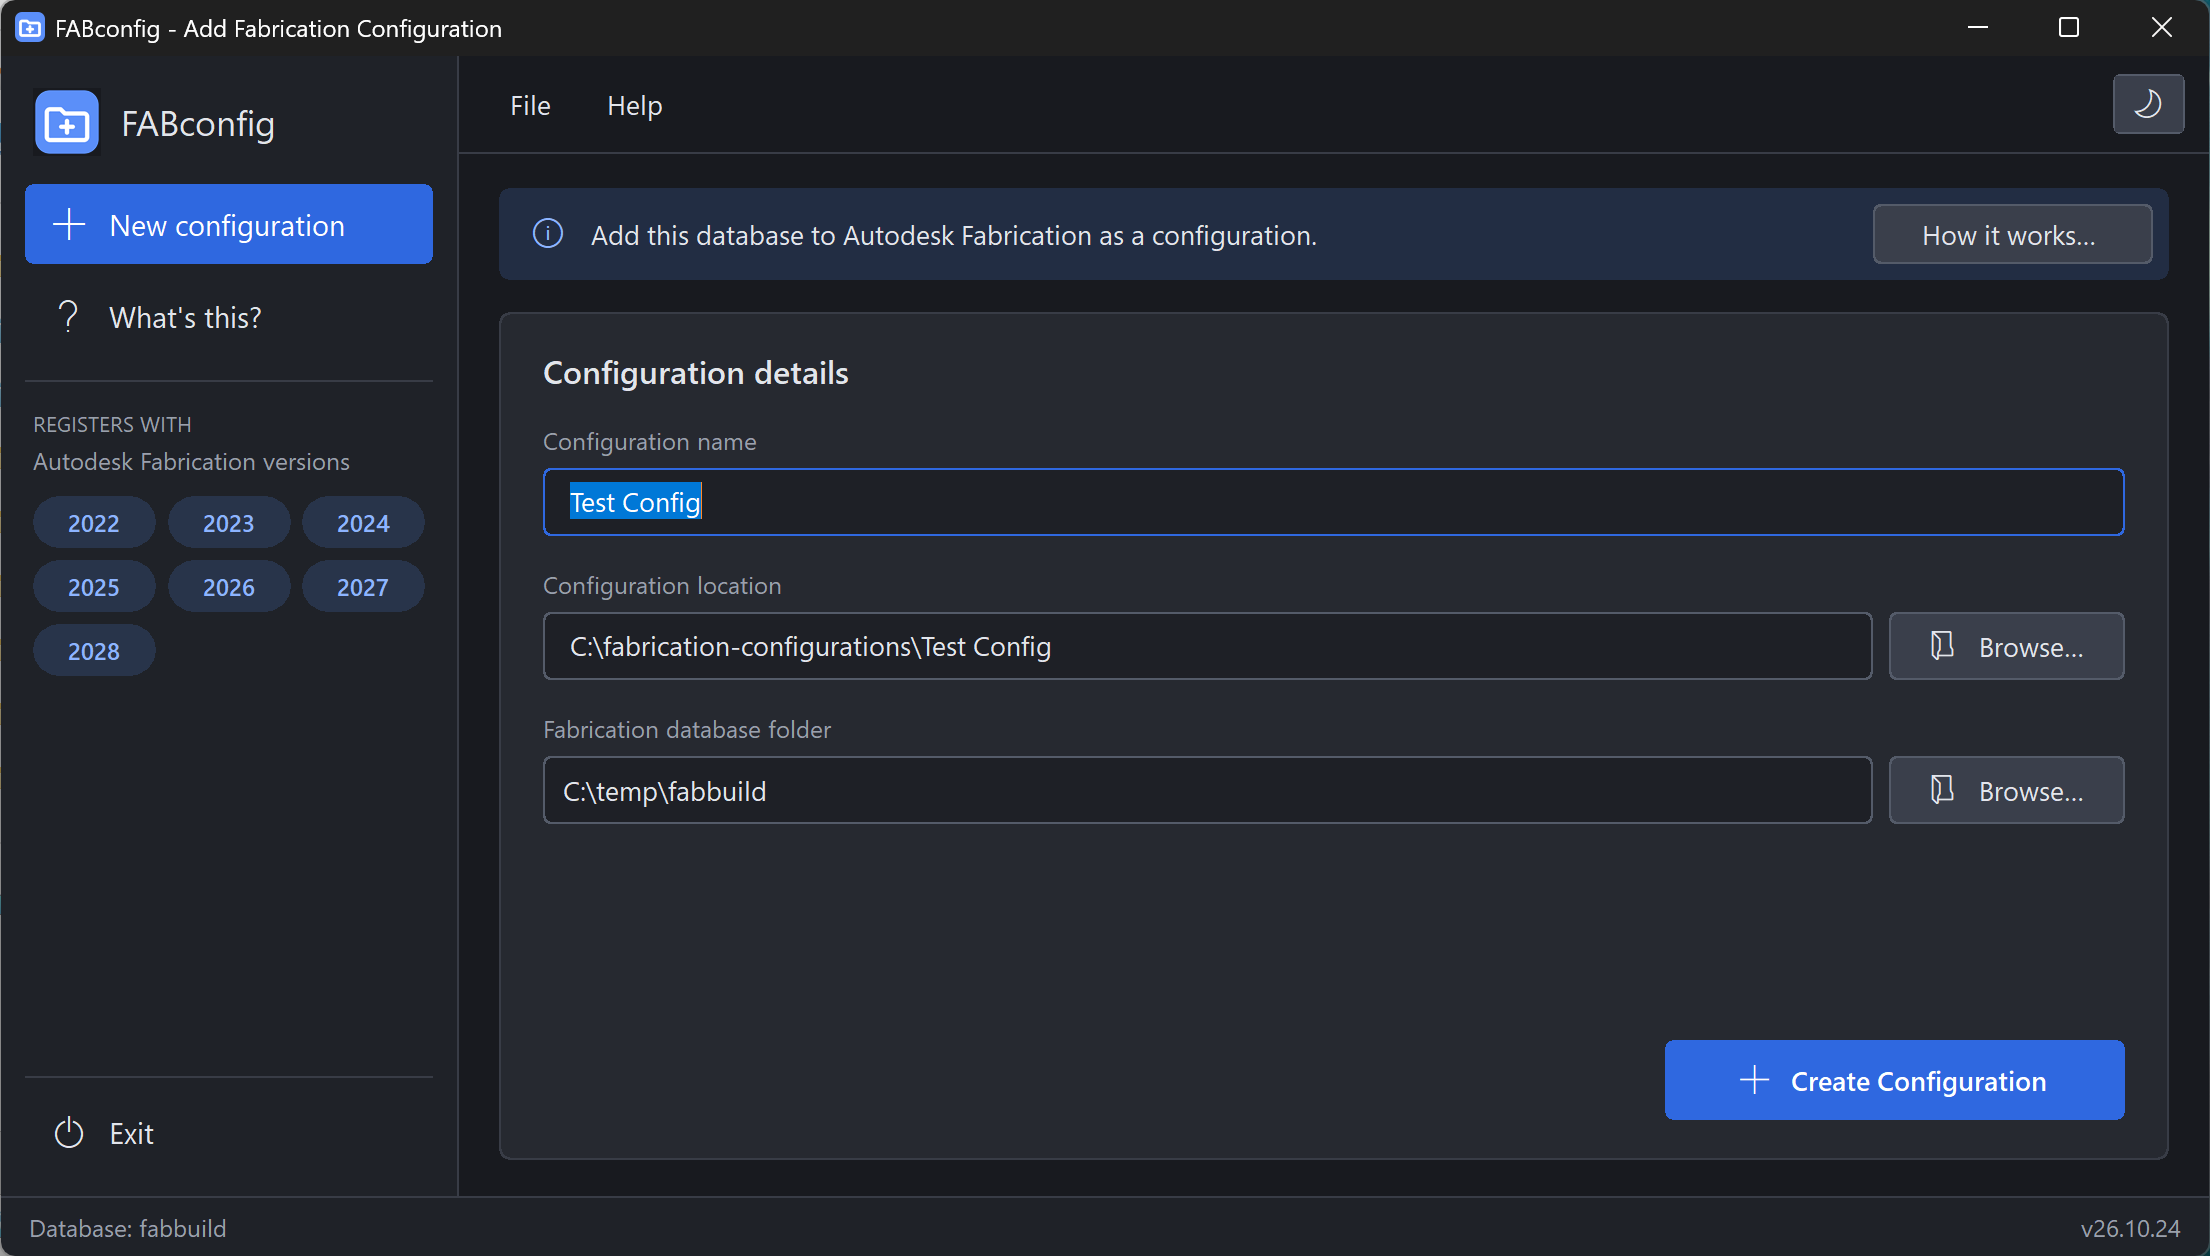
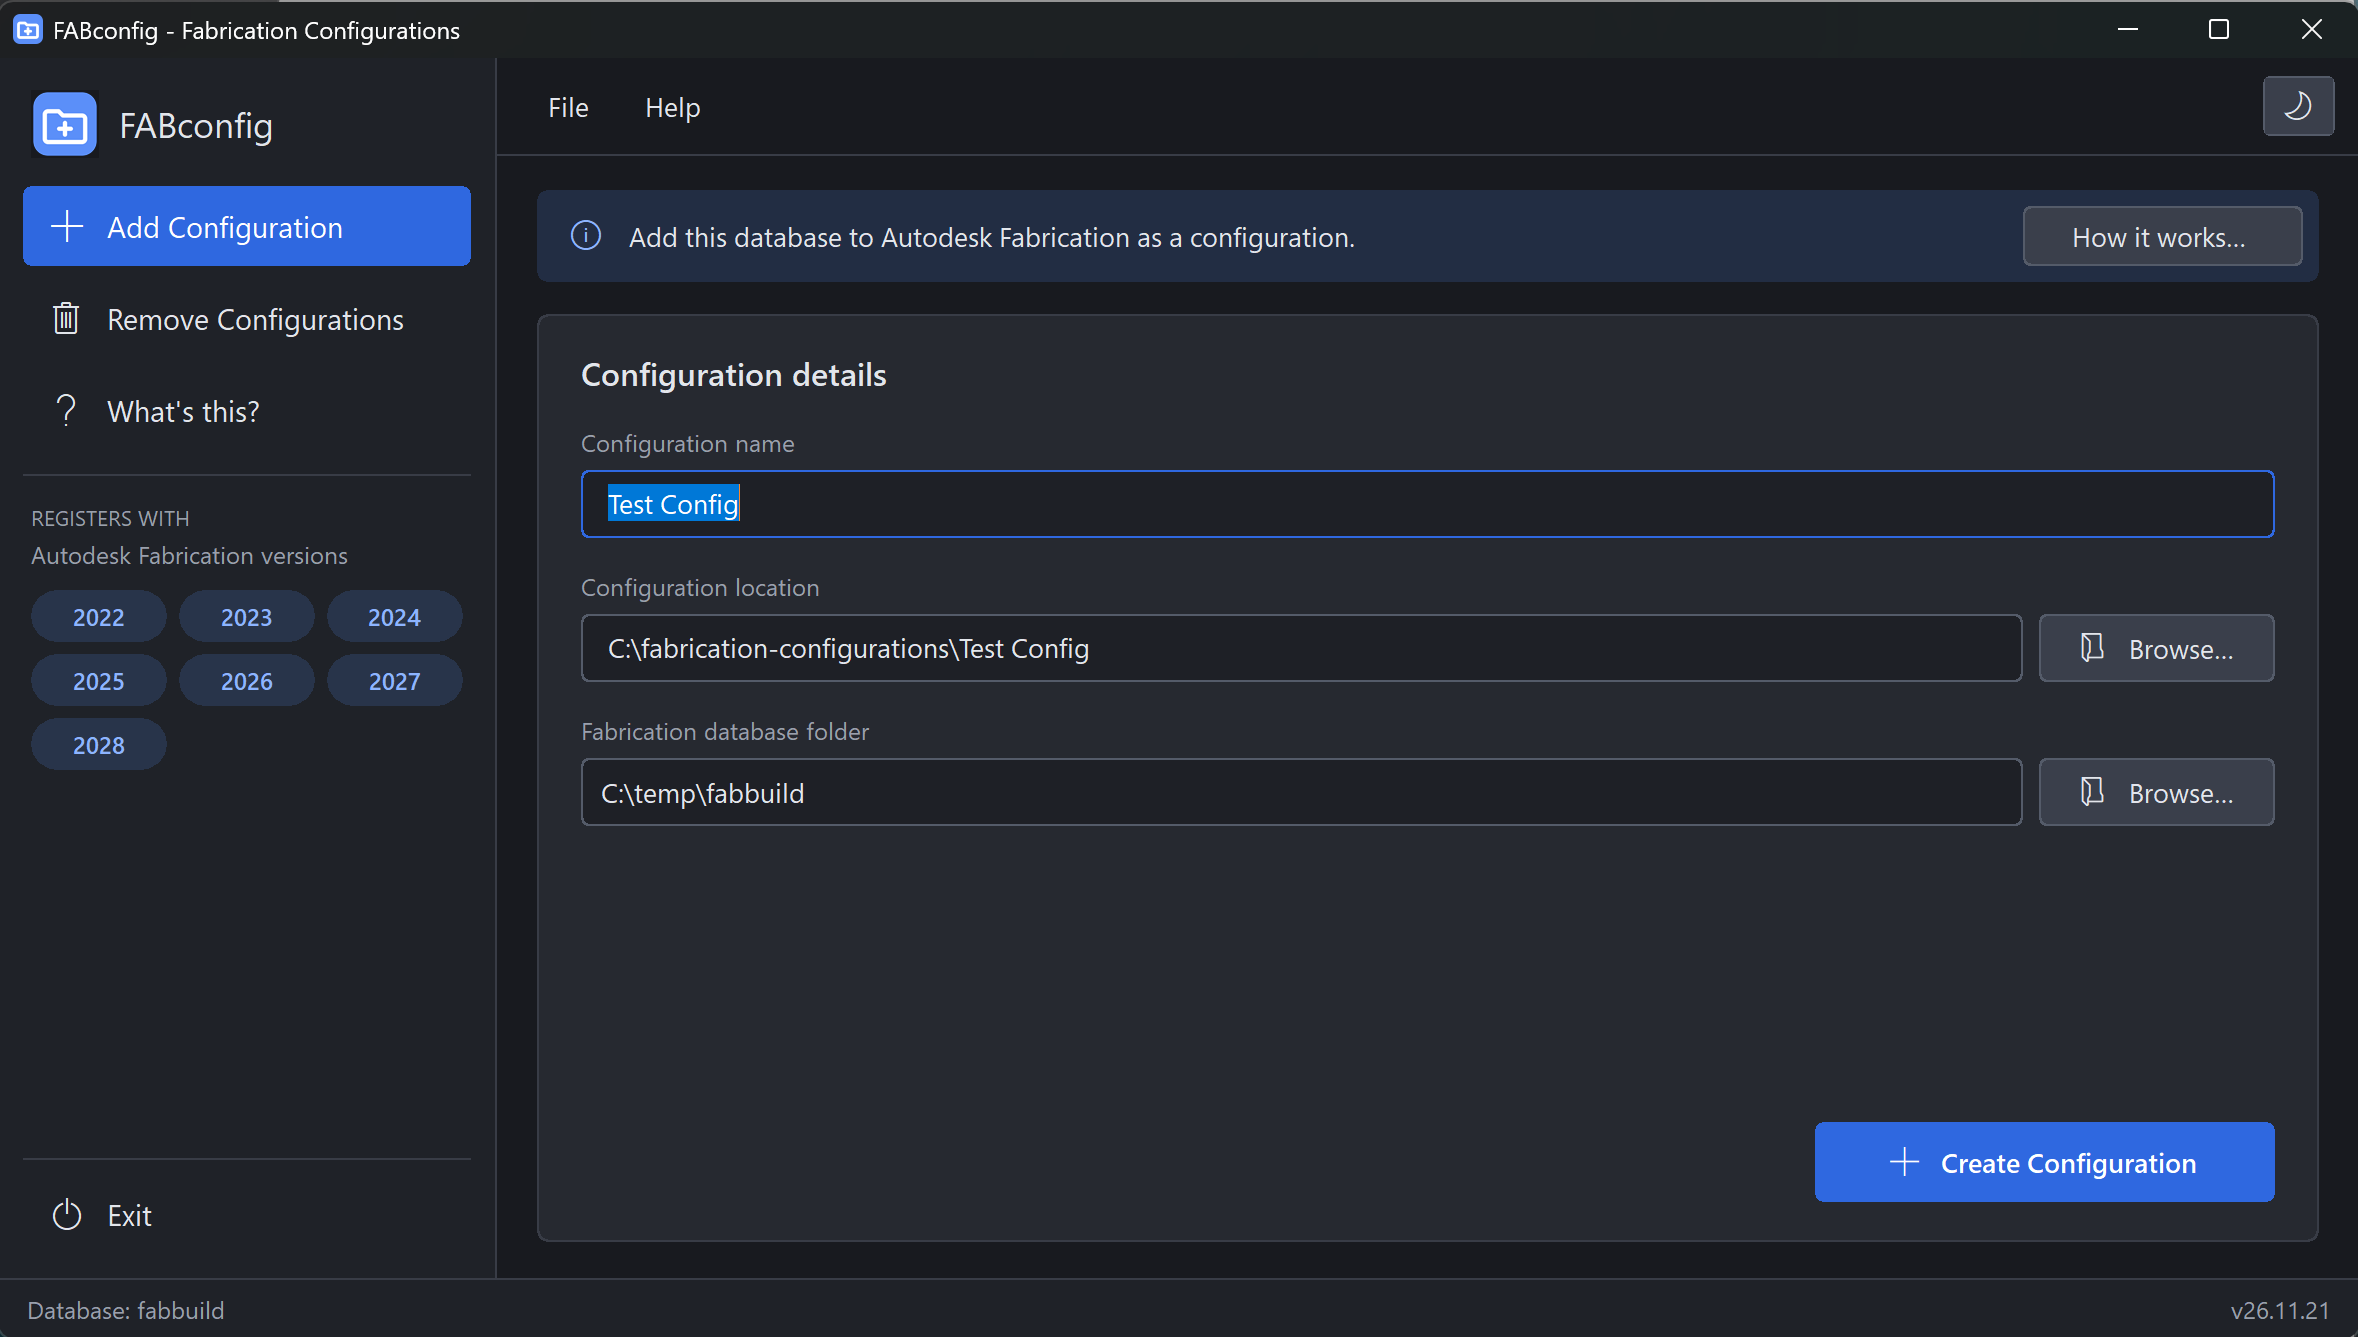
Merge FABclean in as the Remove Configurations page (v26.11.21.1)
Sidebar: Add Configuration, Remove Configurations, What's this?. Wider
window, dark list and menus, years shown in order, FABclean's safety
rules plus a database-folder check. Nothing is ticked for the user.

diff --git a/CLAUDE.md b/CLAUDE.md
@@ -1,6 +1,6 @@
 # FABconfig
 
-FABconfig is a Windows GUI tool, written in AutoHotkey v2, that registers an Autodesk Fabrication database as a named Fabrication configuration. It creates a configuration folder, writes a `map.ini` pointing back to the shared database, copies `config.png`, and writes `HKCU\Software\Autodesk\Fabrication <year>\Configuration\<name>` → `Path` for years A_YYYY-4 to A_YYYY+2. It also remembers the light/dark theme choice in its own HKCU key. See README.md for user-facing behavior.
+FABconfig is a Windows GUI tool, written in AutoHotkey v2, that registers an Autodesk Fabrication database as a named Fabrication configuration, and (Remove Configurations page, formerly the internal tool FABclean) removes configurations. It creates a configuration folder, writes a `map.ini` pointing back to the shared database, copies `config.png`, and writes `HKCU\Software\Autodesk\Fabrication <year>\Configuration\<name>` → `Path` for years A_YYYY-4 to A_YYYY+2. It also remembers the light/dark theme choice in its own HKCU key. See README.md for user-facing behavior.
 
 Owner and developer: Scott Hendricks, Virtual Building Supply, LLC (VBS). License: GPL-3.0-or-later with section 7 additional terms (keep author attribution; no rights to VBS name/logo).
 
@@ -39,6 +39,12 @@ Owner and developer: Scott Hendricks, Virtual Building Supply, LLC (VBS). Licens
 - Avoid multi-line ternaries (lines starting with `?` / `:`); use if/else.
 - When editing with scripted find/replace, make sure a replacement doesn't split a comment line onto code (an earlier edit left the tail of a comment after a statement and broke the script).
 
+## Removing configurations safely (rules carried over from FABclean)
+
+- Only act on folders registered as configurations (a `Path` under `HKCU\Software\Autodesk\Fabrication <year>\Configuration\<name>`). Never scan the disk for the map.ini marker and delete what matches: VBS databases have the same first line.
+- Never delete permanently: folders go to the Recycle Bin (`FileRecycle`). Never tick anything for the user, and always confirm, listing what will go and how many other items each folder holds.
+- `FolderCanGo()` refuses a drive or share root, the folder FABconfig runs from, the database folder (or one containing it), any folder that `IsDatabaseFolder()` accepts, and a folder another configuration that's being kept still uses.
+
 ## Databases vs. configuration folders
 
 - VBS databases' own map.ini files also start with `# Created by Virtual Building Supply`, so that marker does **not** tell a configuration folder from a database (relying on it made FABconfig reject its own database folder). `IsConfigFolder()` instead checks whether `[PROGRAM PATHS] Main` resolves to a different folder; a database's map.ini has `Main=.`. Use the marker (`HasMarker()`) only on folders already known to be configurations.
@@ -46,6 +52,8 @@ Owner and developer: Scott Hendricks, Virtual Building Supply, LLC (VBS). Licens
 ## UI structure
 
 - Laid out like MapQuery Studio: sidebar (app icon tile + name, pill-shaped nav items New configuration / What's this? that fill with the accent when selected, a "REGISTERS WITH" section of version chips, Exit at the bottom), a top bar (File and Help menus, theme button on the right), the page, and a status bar (database folder name on the left, version on the right). Cards have a 1px border (`PlaceCard`: a border layer under a fill layer).
+- Views: `main` (Add Configuration), `remove` (Remove Configurations) and `about`; each view's controls are in `mainCtrls` / `removeCtrls` / `aboutCtrls`, and `ShowView()` switches them. The status bar text comes from `StatusText()` (database name, or the configuration count on the Remove page).
+- Remove view: info banner, a ListView of configurations (`FindConfigs()` groups registry entries by name and folder; `RefreshConfigs()` fills the list, all unticked), the Recycle Bin checkbox (no text of its own: a themed checkbox ignores the text color, so a separate label toggles it), Refresh and Remove selected (danger color). In the dark theme, `SetControlThemes()` opts the app into dark mode through uxtheme's unnamed functions (ordinals 135 SetPreferredAppMode, 136 FlushMenuThemes, 133 AllowDarkModeForWindow), which also makes the menus dark, and `LvSubclass` gives the list header its text color by answering NM_CUSTOMDRAW.
 - Main view: an info banner (with "How it works…") and the "Configuration details" card (name, location + Browse, database folder + Browse, Create Configuration button at bottom right).
 - About view ("What's this?"): four numbered step tiles and a text card ending with the VBS logo and the GPL copyright/no-warranty notice.
 - Clickable items are "groups" (`NewGroup`/`AddPart`) with hover color roles, a hand cursor and a polling timer to clear hover. Buttons with an outline keep the outline (`grp.Edge`) out of the group's parts.

diff --git a/README.md b/README.md
@@ -1,8 +1,8 @@
 # FABconfig
 
-FABconfig adds an Autodesk Fabrication database to Fabrication (Revit, CADmep, ESTmep, CAMduct) as a named configuration, so the database appears in Fabrication's configuration list at start-up. It creates the configuration folder, writes a `map.ini` that points back to the shared database, and registers the configuration with each recent Fabrication version, all in one click.
+FABconfig adds an Autodesk Fabrication database to Fabrication (Revit, CADmep, ESTmep, CAMduct) as a named configuration, so the database appears in Fabrication's configuration list at start-up. It can also remove configurations you no longer need. It creates the configuration folder, writes a `map.ini` that points back to the shared database, and registers the configuration with each recent Fabrication version, all in one click.
 
-![FABconfig's main window in the dark theme, with the configuration name, location and database folder, and the Fabrication versions it registers with in the sidebar](docs/screenshot.png)
+![FABconfig's Add Configuration page in the dark theme, with the configuration name, location and database folder; the sidebar has Add Configuration, Remove Configurations and What's this?, and the Fabrication versions it registers with](docs/screenshot.png)
 
 FABconfig is written in [AutoHotkey v2](https://www.autohotkey.com/) and can be run as a script or compiled into a standalone `.exe`. It is developed by Virtual Building Supply, LLC and released under the GNU General Public License v3.
 
@@ -47,9 +47,15 @@ Nothing in the database folder itself is changed. Running FABconfig again with t
 - If a configuration with the same name already exists, FABconfig shows which Fabrication versions it's registered with and where it points (and warns if it wasn't made by FABconfig), then asks before overwriting it. It checks every Fabrication version in the registry, not just the range above, and an overwrite updates all of them. If the name is new but the chosen folder already has a `map.ini`, it asks before overwriting that too. Whenever it overwrites a `map.ini`, the previous one is kept next to it as `map.ini.bak` (only the most recent one is kept).
 - If any file can't be written or any registry entry can't be saved, FABconfig says so instead of reporting success.
 
-### Removing a configuration
+### Removing configurations
 
-To remove a configuration by hand, delete its `Configuration\<name>` key under each `HKEY_CURRENT_USER\Software\Autodesk\Fabrication <year>` key, then delete the configuration folder. Close Fabrication first.
+Close Fabrication, then open **Remove Configurations** in the sidebar. It lists every configuration registered for you, with its folder, the Fabrication versions it's registered with, and whether FABconfig made it or it was set up by hand. Nothing is ticked for you.
+
+1. Tick the configurations to remove.
+2. Leave **Also move each folder to the Recycle Bin** on to remove their folders too.
+3. Click **Remove selected** and confirm. The confirmation lists each configuration, its folder, and how many other items (projects, backups) the folder holds.
+
+FABconfig deletes each configuration's `Configuration\<name>` key under every `HKEY_CURRENT_USER\Software\Autodesk\Fabrication <year>` key, moves the folder to the Recycle Bin (it can be restored from there), and removes `C:\fabrication-configurations` if that's left empty. It never removes a drive or share root, a database folder, the folder FABconfig runs from, or a folder that another configuration still uses.
 
 ## Building the .exe
 

diff --git a/CHANGELOG.md b/CHANGELOG.md
@@ -4,7 +4,15 @@ What changed in each version of FABconfig. Versions are dates (`vYY.MM.DD`); see
 
 ## Unreleased
 
+## v26.11.21.1
+
+### Added
+- **Remove Configurations** page (formerly the separate internal tool FABclean): lists every Fabrication configuration registered on this PC and removes the ones you tick, deleting their registry entries for every Fabrication version and, optionally, moving their folders to the Recycle Bin. Nothing is ticked for you; configurations FABconfig didn't make are labelled "Set up by hand", and you confirm before anything is removed. It never removes a drive or share root, a database folder, FABconfig's own folder, or a folder another configuration still uses.
+
 ### Changed
+- Sidebar items are now **Add Configuration**, **Remove Configurations** and **What's this?**. The window is wider (1180 × 640) to fit them and the list.
+- The window title is "FABconfig - Fabrication Configurations".
+- In the dark theme the configuration list, its column titles, scroll bars and the File/Help menus are dark too.
 - The compiled file is always named `FABconfig.exe`, without the version.
 
 ## v26.11.21
